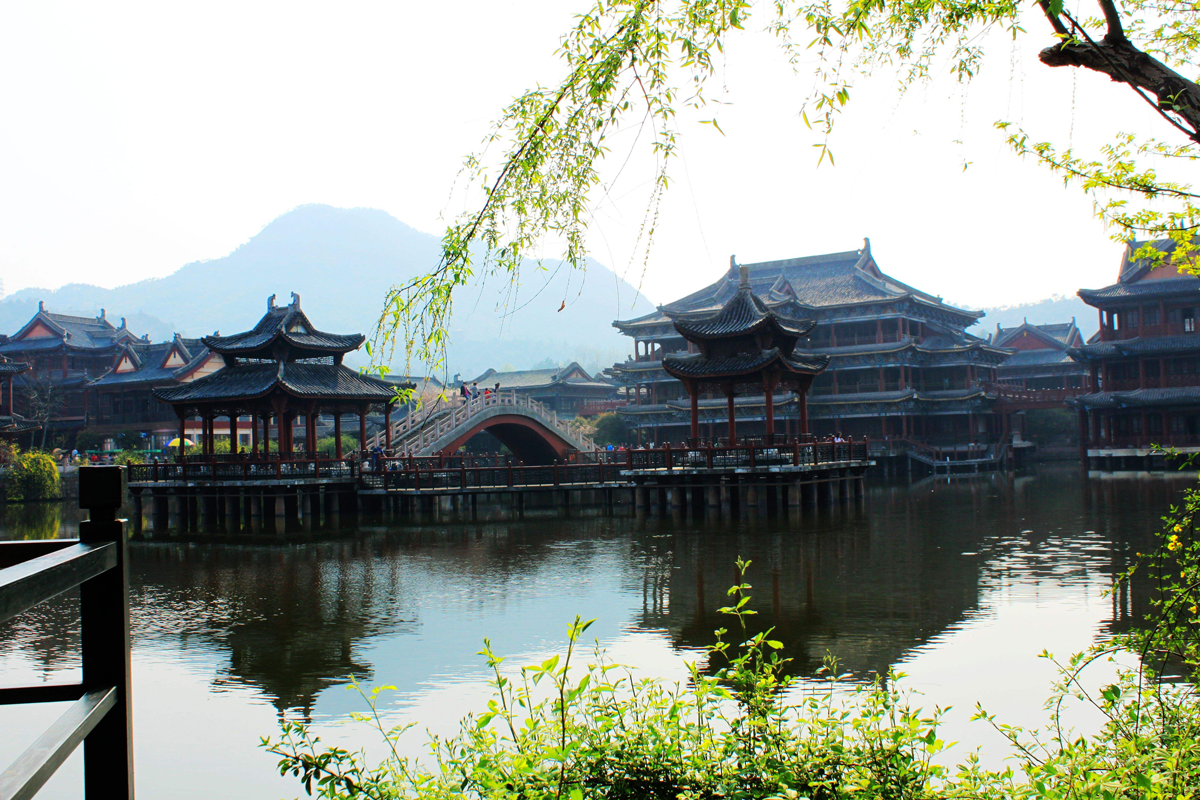
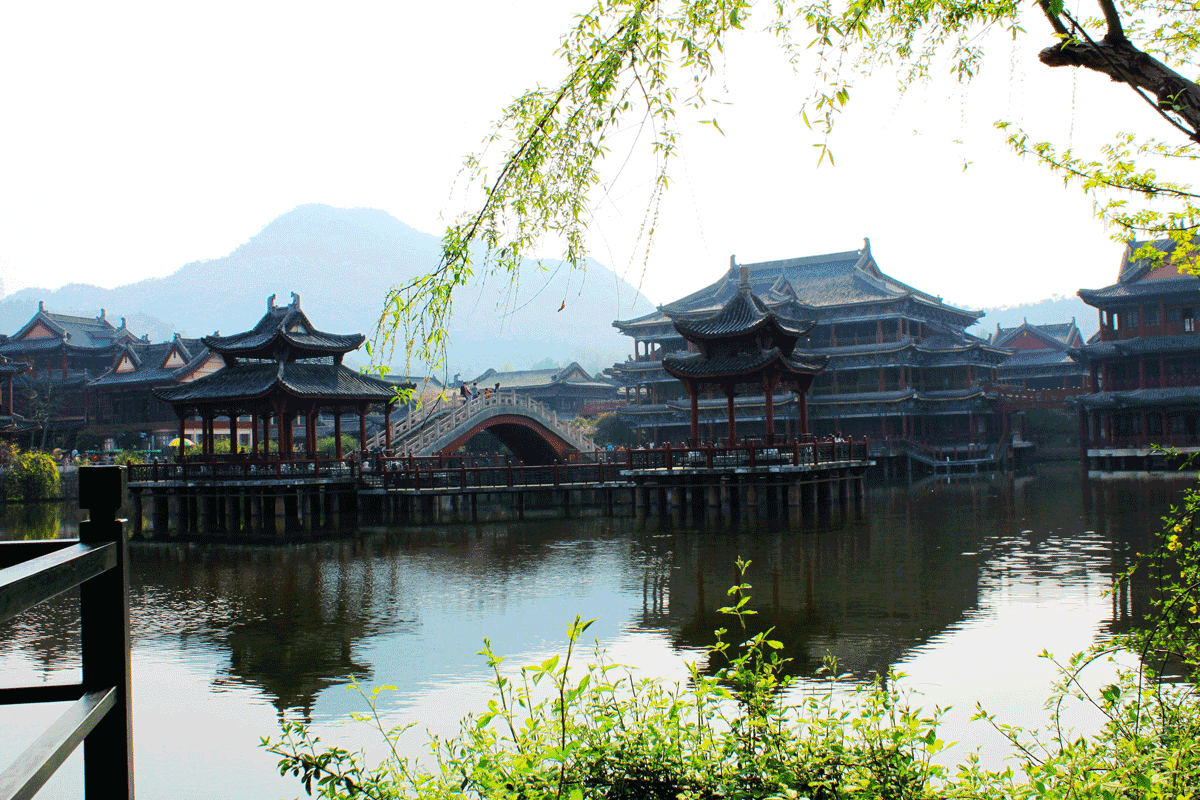
background优化

diff --git a/css/mycss.css b/css/mycss.css
@@ -281,7 +281,7 @@
 		background: url(../images/bg1_1.png) no-repeat top center/cover;
 	}
 	.swiper-slide3{
-		background: url(../images/bg3_1.jpg) no-repeat top center/cover;
+		background: url(../images/bg3_1.png) no-repeat top center/cover;
 	}
 	.bg_wrap{
 		width: 100%;
